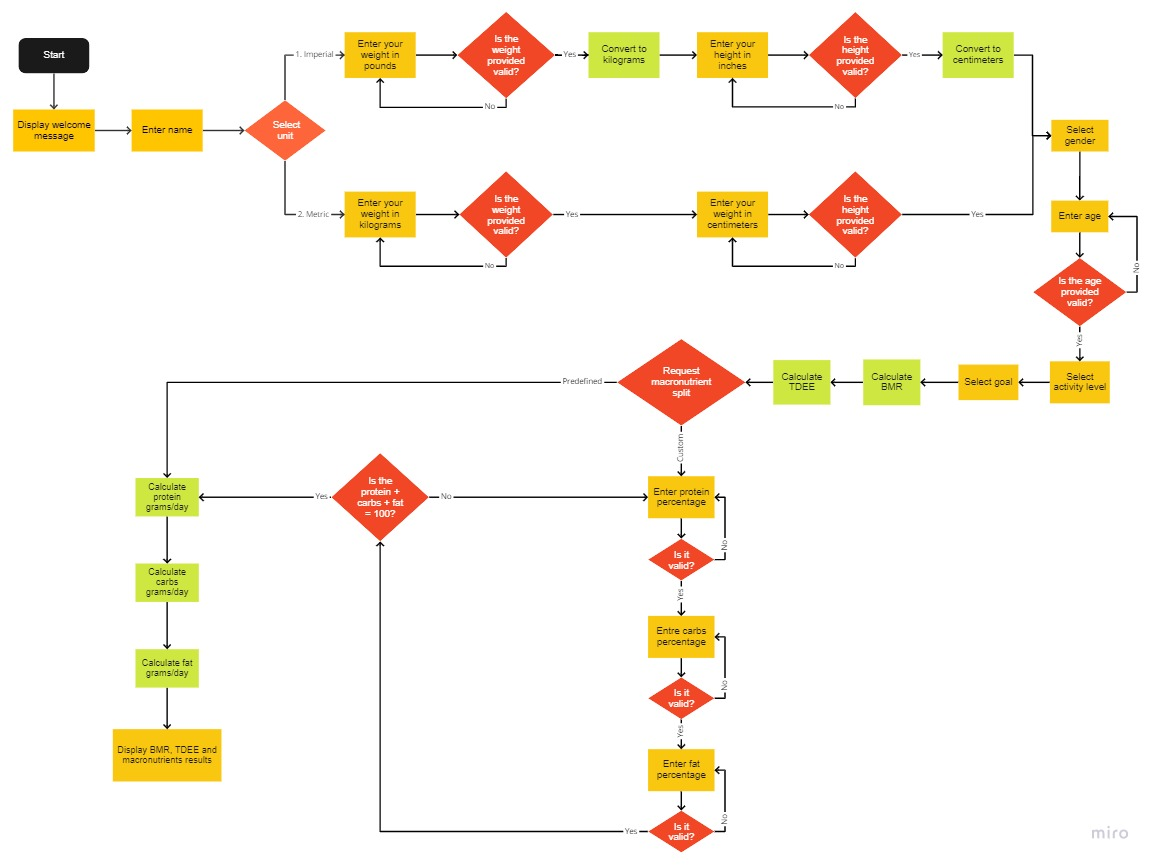
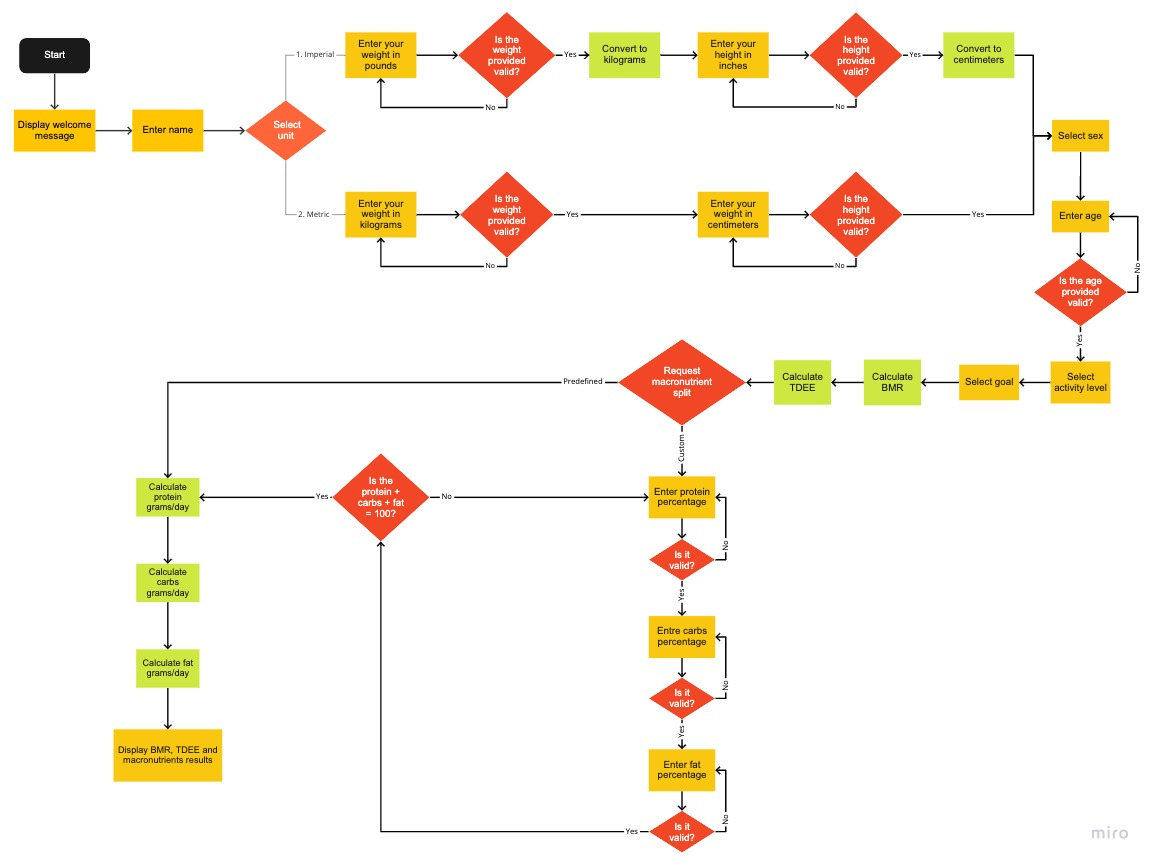
Add content to Features in README.md and comment out custom macros code

diff --git a/run.py b/run.py
@@ -535,14 +535,13 @@ def select_diet():
         diet_selection = input(i_color +
                                '\nTo be able to calculate your daily macros, '
                                'choose your prefered diet. '
-                               '\nPlease enter a value between 1 and 6 '
+                               '\nPlease enter a value between 1 and 5 '
                                'to select the desired diet:\n'
                                '\n1. Balanced.'
                                '\n2. Low-carb.'
                                '\n3. High-carb.'
                                '\n4. High-protein.'
-                               '\n5. Ketogenic.'
-                               '\n6. Custom (Advanced users only).\n' +
+                               '\n5. Ketogenic.\n' +
                                reset_all)
 
         if diet_selection == '1':
@@ -590,48 +589,48 @@ def select_diet():
 
             return macro_data
 
-        elif diet_selection == '6':
-            while True:
-                protein = collect_macro('protein')
-                carbs = collect_macro('carbs')
-                fat = collect_macro('fat')
+        # elif diet_selection == '6':
+        #     while True:
+        #         protein = collect_macro('protein')
+        #         carbs = collect_macro('carbs')
+        #         fat = collect_macro('fat')
 
-                if validate_percentage(protein, carbs, fat):
+        #         if validate_percentage(protein, carbs, fat):
 
-                    macro_data = {
-                        'diet': 'custom', 'protein': protein / 100,
-                        'carbs': carbs / 100, 'fat': fat / 100
-                        }
+        #             macro_data = {
+        #                 'diet': 'custom', 'protein': protein / 100,
+        #                 'carbs': carbs / 100, 'fat': fat / 100
+        #                 }
 
-                    return macro_data
+        #             return macro_data
 
-                else:
-                    continue
+        #         else:
+        #             continue
 
         else:
             print('\n' + e_color +
                   'Invalid selection. '
-                  'You need to enter a number between 1 and 6 '
+                  'You need to enter a number between 1 and 5 '
                   'to choose the desired diet.' +
                   reset_all)
             continue
 
 
-def collect_macro(macro_type):
-    '''
-    Allow the user to input a custom macro
-    percentage and return the value
-    '''
-    while True:
-        macro = input(i_color +
-                      '\nPlease enter the desired '
-                      f'{macro_type} percentage:\n' +
-                      reset_all)
+# def collect_macro(macro_type):
+#     '''
+#     Allow the user to input a custom macro
+#     percentage and return the value
+#     '''
+#     while True:
+#         macro = input(i_color +
+#                       '\nPlease enter the desired '
+#                       f'{macro_type} percentage:\n' +
+#                       reset_all)
 
-        if validate_macro(macro):
-            return int(macro)
-        else:
-            continue
+#         if validate_macro(macro):
+#             return int(macro)
+#         else:
+#             continue
 
 
 def restart_program():
@@ -732,41 +731,41 @@ def validate_age(age):
     return True
 
 
-def validate_macro(macro_percentage):
-    '''
-    Validate the provided macro percentage value
-    '''
-    try:
-        percentage = int(macro_percentage)
-        if percentage < 1 or percentage > 100:
-            raise ValueError('The percentage value must be between 1 and 100.')
-    except ValueError as e:
-        print('\n' + e_color +
-              f'Invalid percentage. {e} '
-              'Please provide your percentage again.' +
-              reset_all)
-        return False
+# def validate_macro(macro_percentage):
+#     '''
+#     Validate the provided macro percentage value
+#     '''
+#     try:
+#         percentage = int(macro_percentage)
+#         if percentage < 1 or percentage > 100:
+#             raise ValueError('The percentage value must be between 1 and 100.')
+#     except ValueError as e:
+#         print('\n' + e_color +
+#               f'Invalid percentage. {e} '
+#               'Please provide your percentage again.' +
+#               reset_all)
+#         return False
 
-    return True
+#     return True
 
 
-def validate_percentage(*args):
-    '''
-    Validate the total percentage value
-    '''
-    try:
-        percentage = 0
-        for num in args:
-            percentage += num
-        if percentage != 100:
-            raise ValueError('The total percentage value must be exactly 100.')
-    except ValueError as e:
-        print('\n' + e_color +
-              f'Invalid input. {e} Please try again.' +
-              reset_all)
-        return False
+# def validate_percentage(*args):
+#     '''
+#     Validate the total percentage value
+#     '''
+#     try:
+#         percentage = 0
+#         for num in args:
+#             percentage += num
+#         if percentage != 100:
+#             raise ValueError('The total percentage value must be exactly 100.')
+#     except ValueError as e:
+#         print('\n' + e_color +
+#               f'Invalid input. {e} Please try again.' +
+#               reset_all)
+#         return False
 
-    return True
+#     return True
 
 
 # CONVERSION FUNCTIONS

diff --git a/README.md b/README.md
@@ -14,12 +14,22 @@ There are three principal classes of macronutrients: carbohydrate, protein, and 
     4. [Data Model](#data-model)
     5. [Flowchart](#flowchart)
 2. [Features](#features)
-3. [Data Model](#data-model)
-4. [Technologies Used](#technologies-used)
-5. [Testing](#testing)
-6. [Deployment](#deployment)
-7. [Credits](#credits)
-8. [Acknowledgements](#acknowledgements)
+    1. [User Information Input](#user-information-input)
+    2. [System of Measurement Selection](#system-of-measurement-selection)
+    3. [Activity Level Selection](#activity-level-selection)
+    4. [Goal Selection](#goal-selection)
+    5. [Diet Selection](#diet-selection)
+    6. [Review Data](#review-data)
+    7. [BMR Calculator](#bmr-calculator)
+    8. [TDEE Calculator](#tdee-calculator)
+    9. [Calories Goal Calculator](#calories-goal-calculator)
+    10. [Macronutrients Calculator](#macronutrients-calculator)
+    11. [Restart Program](#restart-program)
+3. [Technologies Used](#technologies-used)
+4. [Testing](#testing)
+5. [Deployment](#deployment)
+6. [Credits](#credits)
+7. [Acknowledgements](#acknowledgements)
 
 ***
 
@@ -84,6 +94,119 @@ As shown in the flowchart, the original order of some functions has been changed
 [Back to top ⇧](#macro-calculator)
 
 ## Features
+
+### User Information Input
+
+Collect the users information in order to use it in the program.
+
+![User Information Input](assets/readme-files/user-information.png)
+
+Due to the biological characteristics needed for the BMR calculation, sex has been used over gender.
+
+### System of Measurement Selection
+
+Allow the users to select the System of Measurement they are more confortable with.
+
+![System of Measurement Selection](assets/readme-files/system-of-measurement.png)
+
+### Activity Level Selection
+
+Allow the users to select their activity level in order to calculate the total daily energy expenditure (TDEE) based on this activity level.
+
+![Activity Level Selection](assets/readme-files/activity-level.png)
+
+### Goal Selection
+
+Allow the users to select their desired goal . The program will then use this goal to calculate the total daily calories and the macronutrients split based on this goal.
+
+![Goal Selection](assets/readme-files/goal.png)
+
+### Diet Selection
+
+Allow the users to select thier prefered diet. This diet will dictate the split of the macronutrients.
+
+### Review Data
+
+Allow the users to review the data input and give them the possibility to enter the data again if a mistake has been made.
+
+![Review Data](assets/readme-files/review-data.png)
+![Review Data Question](assets/readme-files/review-data-question.png)
+
+### BMR Calculator
+
+The program use the [Mifflin-St Jeor formula](https://pubmed.ncbi.nlm.nih.gov/2305711/) to calculate the user's basal metabolic rate (BMR) using the input provided.
+
+![BMR](assets/readme-files/bmr.png)
+
+**Mifflin-St Jeor Formula**
+
+*Male BMR* = [9.99 x weight (kg)] + [6.25 x height (cm)] – [4.92 x age (years)] + 5
+
+*Female BMR* = [9.99 x weight (kg)] + [6.25 x height (cm)] – [4.92 x age (years)] – 161
+
+### TDEE Calculator
+
+The program use the the value of the selected activity level multiplied by the BMR to calculate the user's total daily energy expenditure (TDEE)..
+
+![TDEE](assets/readme-files/tdee.png)
+
+Activity Level | Value
+---|---
+No activity: | 1.2
+A little activity: | 1.375
+Some activity: | 1.55
+A lot of activity: | 1.725
+A TON of activity: | 1.9
+
+### Calories Goal Calculator
+
+Calculate the total daily calories to be consumed by using the value of the selected goal multiplied by the TDEE.
+
+![Calories Goal](assets/readme-files/calories-goal.png)
+
+**Lose Weight**
+
+Rate | Value
+--- | ---
+Slow | 0.91
+Moderate | 0.82
+Fast | 0.65
+
+**Maintain Weight**
+
+Keeps the same TDEE value.
+
+**Gain Weight**
+
+Rate | Value
+--- | ---
+Slow | 1.08
+Moderate | 1.17
+Fast | 1.34
+
+### Macronutrients Calculator
+
+Use the macronutrient split returned when the diet is selected in order to calculate the macronutrients in grams to be consumed every day.
+
+![Macronutrients](assets/readme-files/macros.png)
+
+**Macronutrients Split Percentage**
+
+Diet | Protein | Carbs | Fat
+--- | ---| --- | ---
+Balanced | 40% | 30% | 30%
+Low-carb | 40% | 20% | 40%
+High-carb | 30% | 50% | 20%
+High-protein | 40% | 20% | 40%
+Ketogenic | 40% | 10% | 50%
+
+### Restart Program
+
+Allow the user to keep running or exit the program.
+
+![Program Loop Question](assets/readme-files/keep-running.png)
+
+[Back to top ⇧](#macro-calculator)
 
 ## Technologies Used
 
